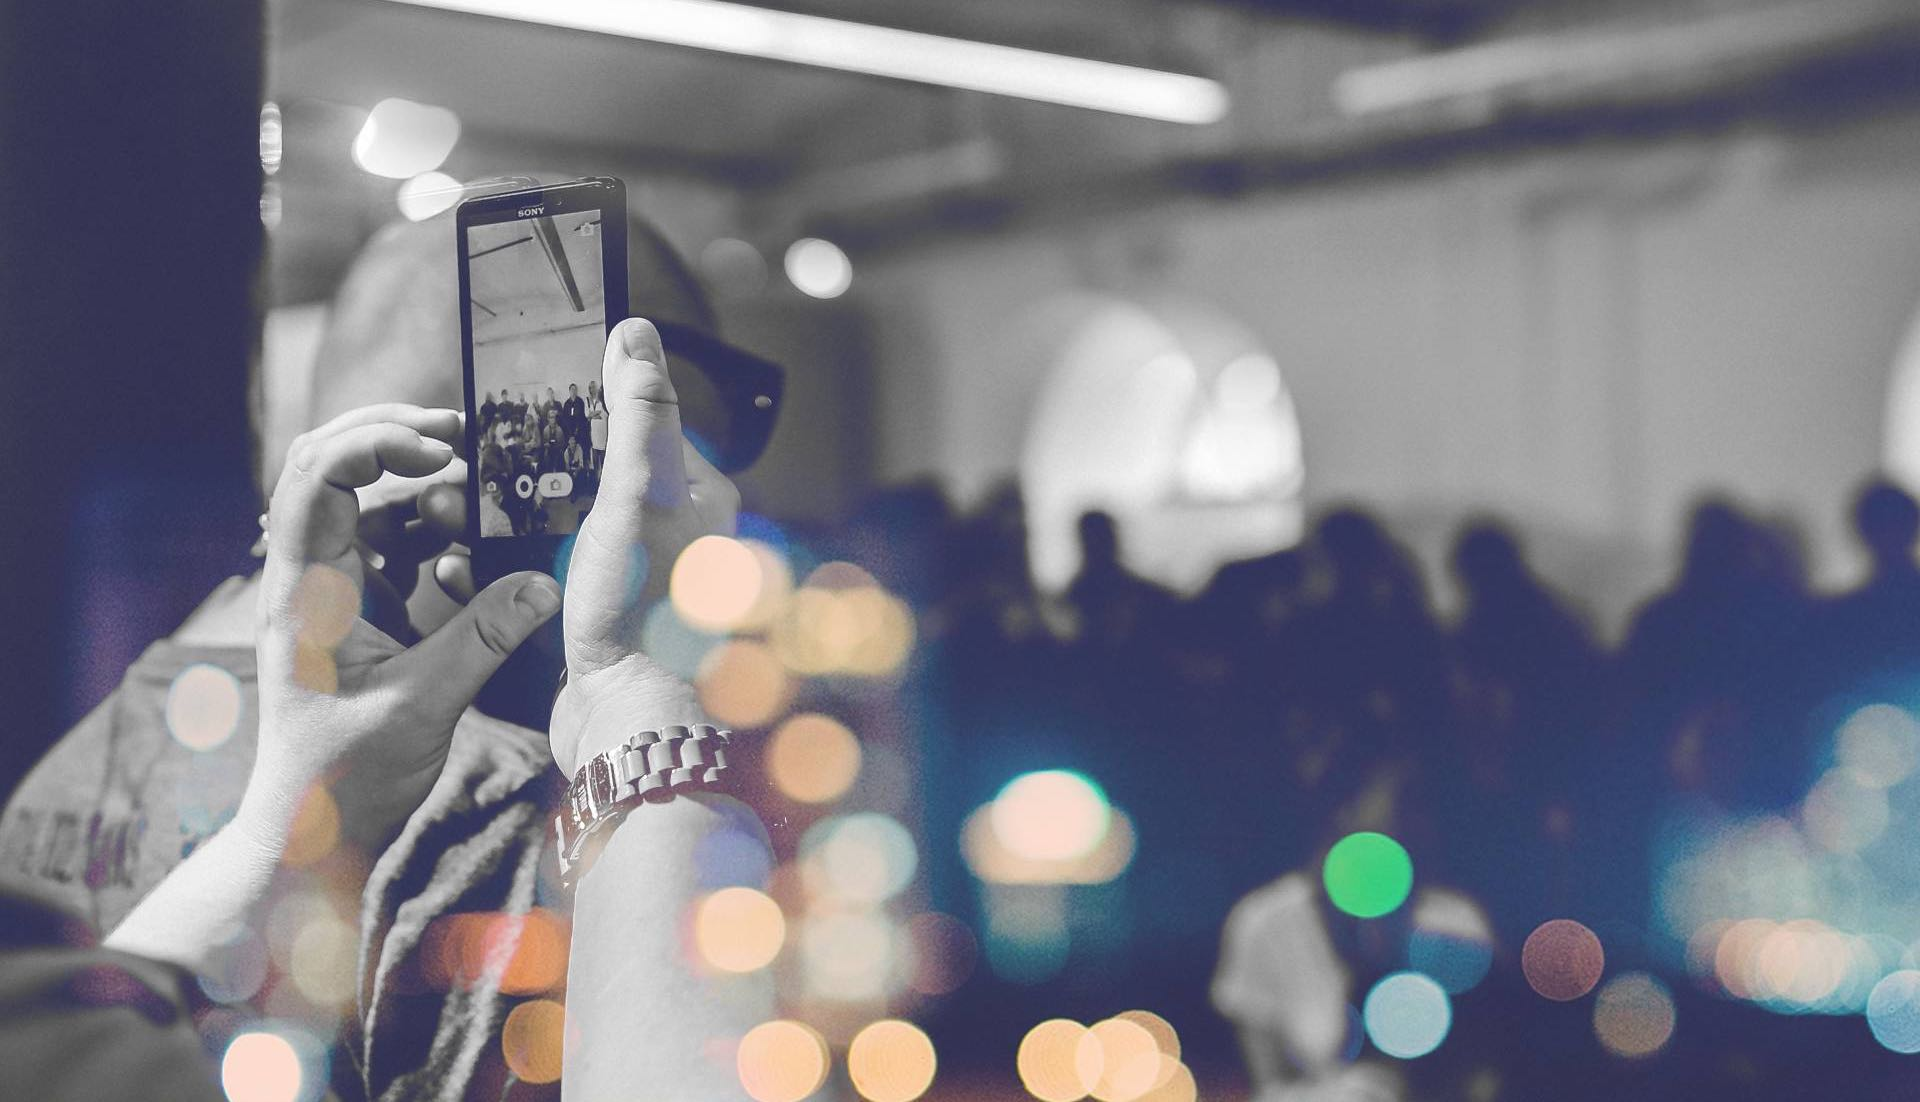
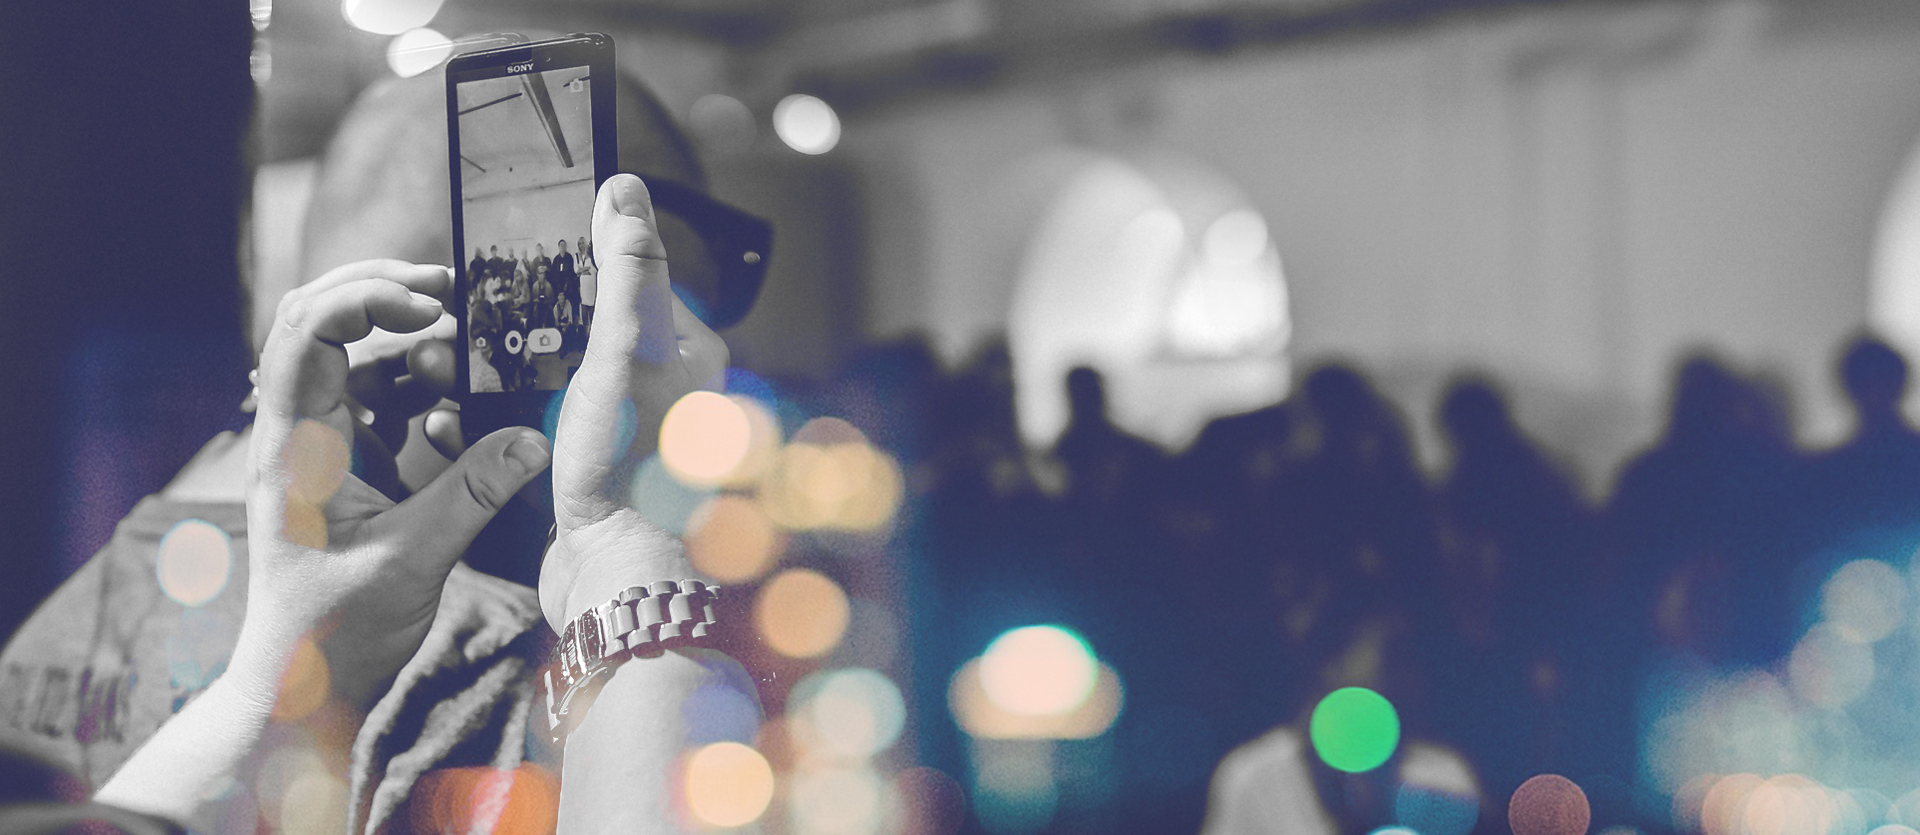
header image sizing bonanza

diff --git a/site/themes/arbor/static/css/arbor.css b/site/themes/arbor/static/css/arbor.css
@@ -323,13 +323,32 @@ ul.menu li {
   font-style: italic;
 }
 
+.desktop-image {
+  width: 100%;
+  height: auto;
+}
+
+.mobile-image {
+  height: 50vh;
+  background-size: cover;
+  background-position: center center;
+}
 
 .header {
-  height: 500px;
   text-align: center;
   margin-bottom: 50px;
   z-index: -1;
-  background-position: center 0px;
+  position: absolute;
+}
+
+.header-content {
+  position: absolute;
+  top: 0px;
+  left: 0px;
+  right: 0px;
+  text-align: center;
+  margin-left: auto;
+  margin-right: auto;
 }
 
 .header h1 {
@@ -339,6 +358,7 @@ ul.menu li {
   padding-top: 150px;
   color: white;
   text-transform: lowercase;
+  text-align: center;
 }
 
 .header .subtitle {
@@ -369,6 +389,9 @@ ul.menu li {
   background-size: cover;
   background-position: center;
   position: relative;
+}
+
+.detail .photo {
   margin-left: -15px;
 }
 
@@ -624,6 +647,10 @@ img.event-image:hover {
     top: 0px;
     left: 0px;
   }
+
+  .desktop-image {
+    display: none;
+  }
 }
 
 /* desktop */ 
@@ -637,6 +664,10 @@ img.event-image:hover {
 
   li.open .expand-arrow {
     background-image: url(../img/desktop-menu-expanded.png);
+  }
+
+  ul.menu {
+    margin-top: 20px;
   }
 
   ul.menu li {
@@ -710,6 +741,10 @@ img.event-image:hover {
 
   .detail .summary {
     height: 100%;
+  }
+
+  .mobile-image {
+    display: none;
   }
 }
 

diff --git a/site/themes/arbor/layouts/partials/content-header.html b/site/themes/arbor/layouts/partials/content-header.html
@@ -2,10 +2,14 @@
 
 <div class="menu-background"></div>
 
-<div class="header" style="background-image: url({{ .Site.BaseURL }}img/{{ .Params.image }});">
-  <h1>{{ .Title }}</h1>
-  <div class="subtitle">
-    {{ .Params.subtitle }}
+<div class="header">
+  <img class="desktop-image" src="{{ .Site.BaseURL }}img/{{ .Params.image }}" />
+  <div class="mobile-image" style="background-image: url({{ .Site.BaseURL }}img/{{ .Params.image }});"></div>
+  <div class="header-content">
+    <h1>{{ .Title }}</h1>
+    <div class="subtitle">
+      {{ .Params.subtitle }}
+    </div>
   </div>
 </div>
 

diff --git a/site/themes/arbor/layouts/serve/single.html b/site/themes/arbor/layouts/serve/single.html
@@ -2,8 +2,7 @@
 <div class="row detail">
   <div class="col-sm-8 col-md-8">
     <div class="photocell">
-      <div class="photo" style="background-image: url({{ .Site.BaseURL }}img/{{ .Params.image }})">
-      </div>
+      <img class="photo" src="{{ .Site.BaseURL }}img/{{ .Params.image }}">
     </div>
   </div>
   <div class="col-sm-4 col-md-4">
